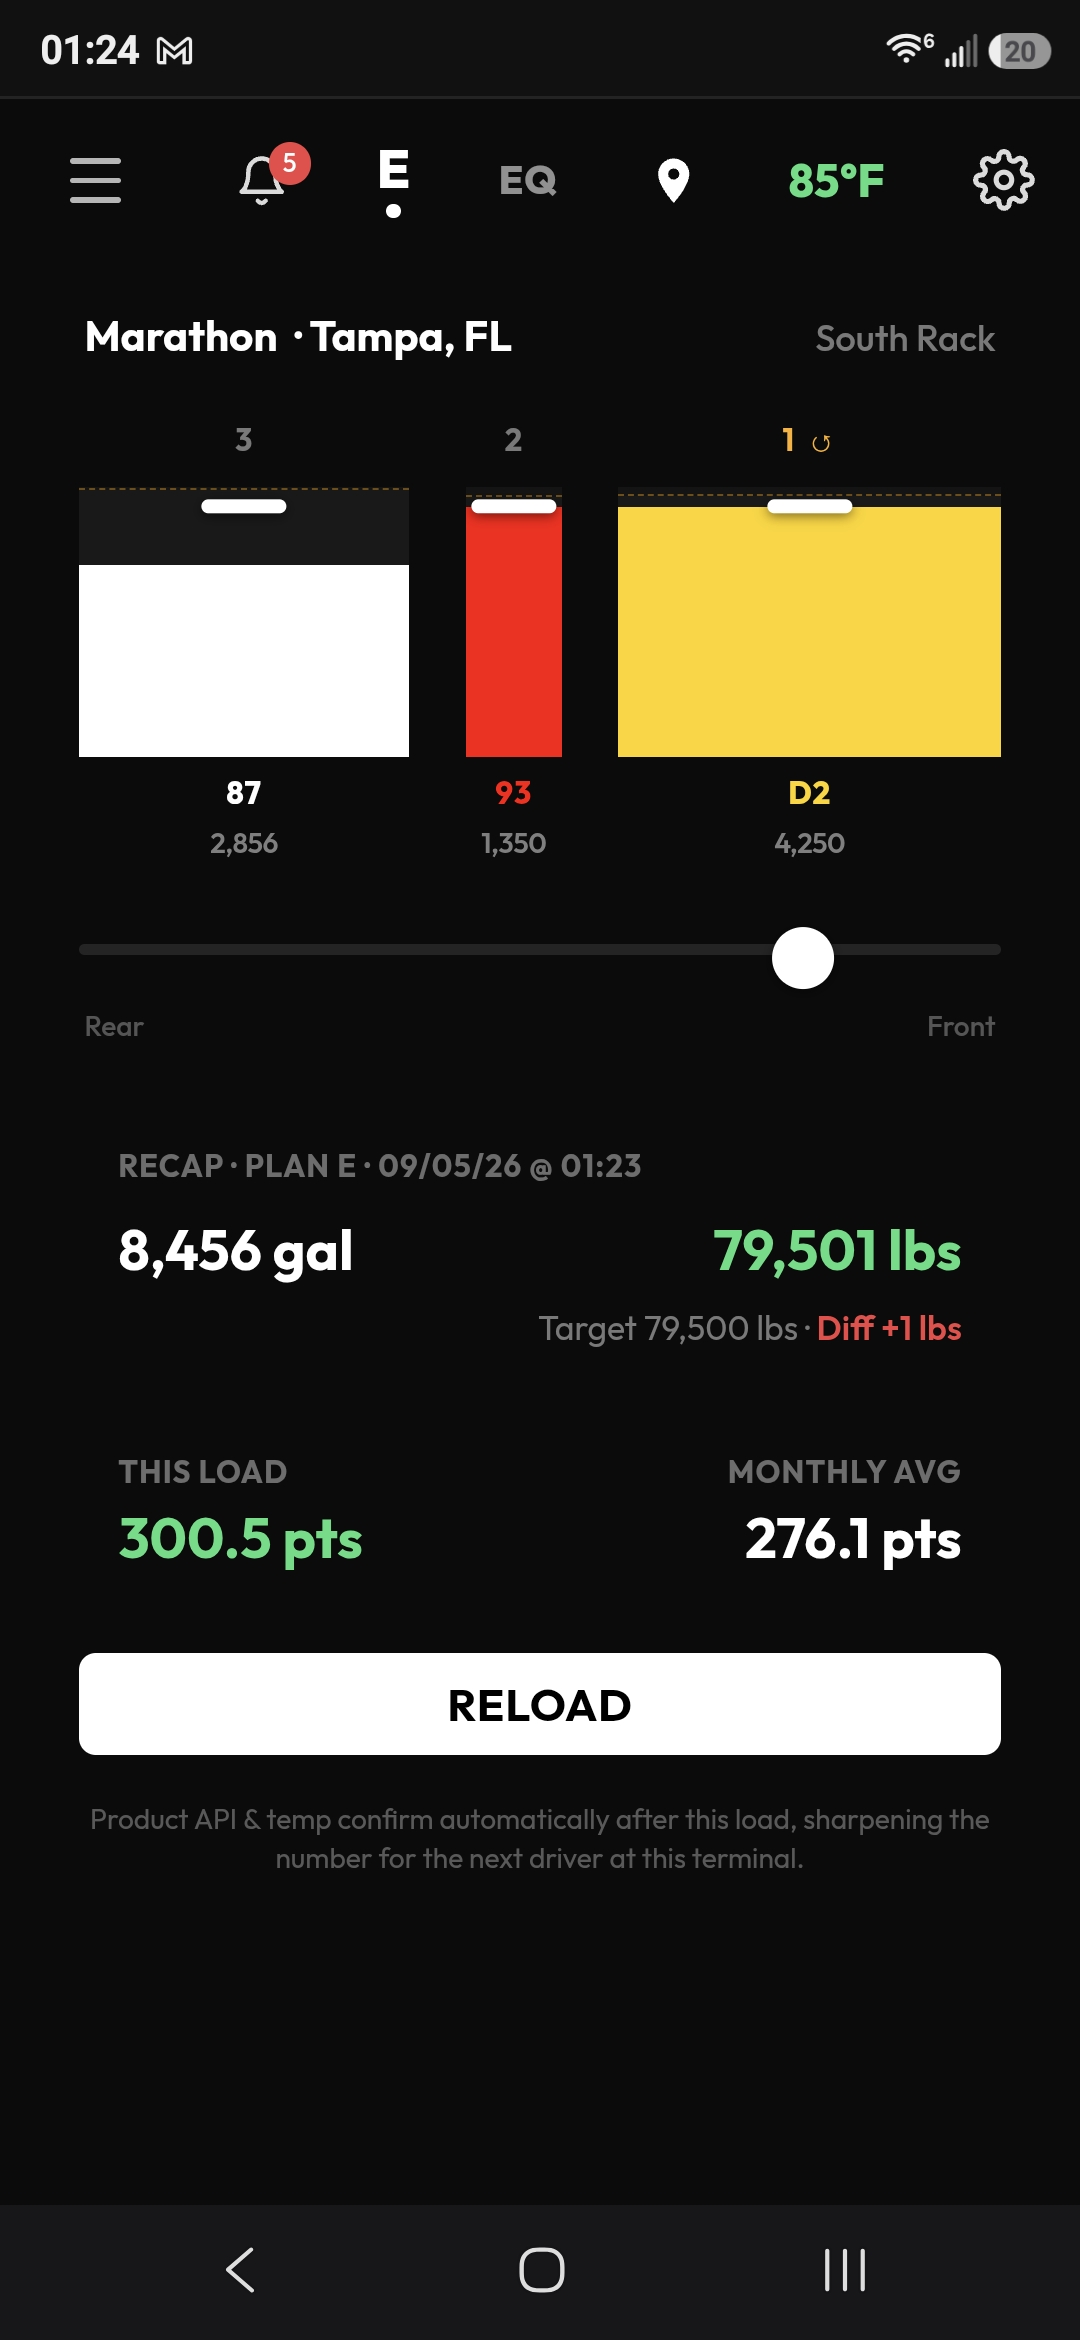
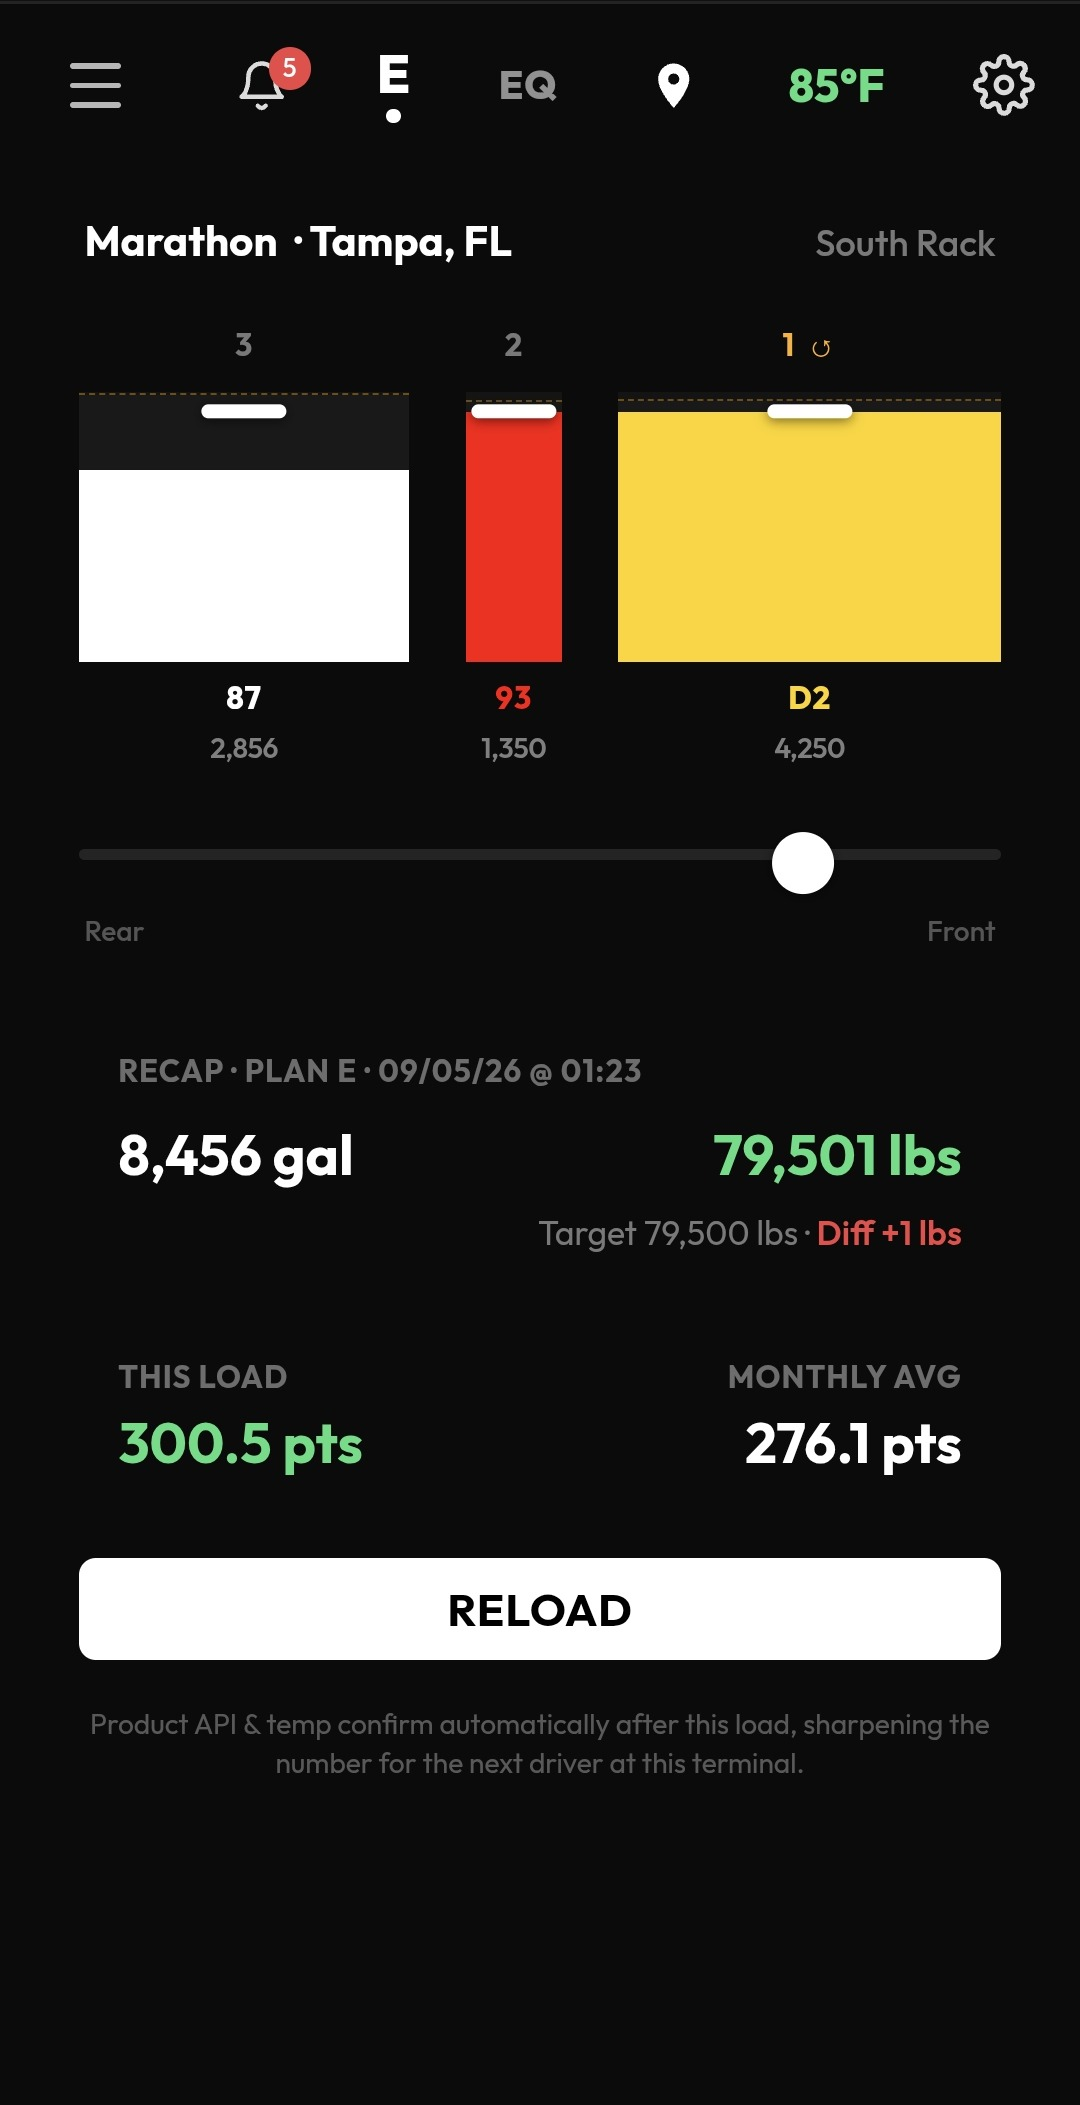
Crop the S25 status bar/gesture nav out of the phone mockup, drop the mismatched fake camera cutout
The screenshot's own baked-in status bar (clock, wifi, battery) and
bottom gesture nav bar are OS chrome specific to whichever device it
was captured on -- cropped both out so the mockup shows only real app
content. Also dropped the frame's fake iPhone-style "dynamic island"
overlay entirely: it was drawn as a fixed pill shape/position that had
no way to line up with a real S25's actual camera hole, which is what
made the clock/status icons look clipped and the cutout look
misplaced. A clean bezel with no cutout can't drift out of alignment
with whatever screenshot is dropped in.

Claude-Session: https://claude.ai/code/session_014iwyTrNjMFPNm8TQ5jYkL9

diff --git a/app/page.tsx b/app/page.tsx
@@ -217,7 +217,7 @@ function OpportunityCalculator() {
 // Bump whenever public/app-screens/planner.jpg is re-exported -- the bare
 // path alone lets browsers keep serving a stale cached copy of the old
 // screenshot indefinitely (same URL every time, no cache-buster).
-const PLANNER_SCREEN_VERSION = "20260905-planreview";
+const PLANNER_SCREEN_VERSION = "20260905b-cropped";
 
 function PhoneScreen() {
   return (
@@ -230,13 +230,17 @@ function PhoneScreen() {
         {/* eslint-disable-next-line @next/next/no-img-element -- a real
             captured screenshot of the live Planner screen; not a Next/Image
             candidate since this is a static marketing asset, not content
-            that benefits from remote optimization. */}
+            that benefits from remote optimization. Cropped to remove the
+            source device's own status bar and gesture nav bar -- that's OS
+            chrome specific to whichever phone the screenshot was taken on,
+            not app content, and a mockup frame's own fake notch/camera
+            cutout would otherwise have to line up with real status-bar
+            icons/a real camera hole it knows nothing about. */}
         <img
           src={`/app-screens/planner.jpg?v=${PLANNER_SCREEN_VERSION}`}
           alt="ProTankr planner screen, showing a real compartment load plan"
           className="screen-img"
         />
-        <div className="dynamic-island" />
       </div>
     </div>
   );
@@ -777,18 +781,6 @@ export default function Home() {
         .phone-btn-power { right: -3px; top: 17%; width: 3px; height: 8.5%; }
         .screen { position: relative; background: #111111; border-radius: 40px; overflow: hidden; line-height: 0; }
         .screen-img { display: block; width: 100%; height: auto; }
-        .dynamic-island {
-          position: absolute;
-          top: 14px;
-          left: 50%;
-          transform: translateX(-50%);
-          width: 84px;
-          height: 24px;
-          background: #000;
-          border-radius: 14px;
-          z-index: 2;
-          box-shadow: inset 0 0 0 1px rgba(255,255,255,0.06);
-        }
 
         /* ---------- Not another TMS ---------- */
         .tms-section { background: #f6f6f5; padding: 96px 48px; }
